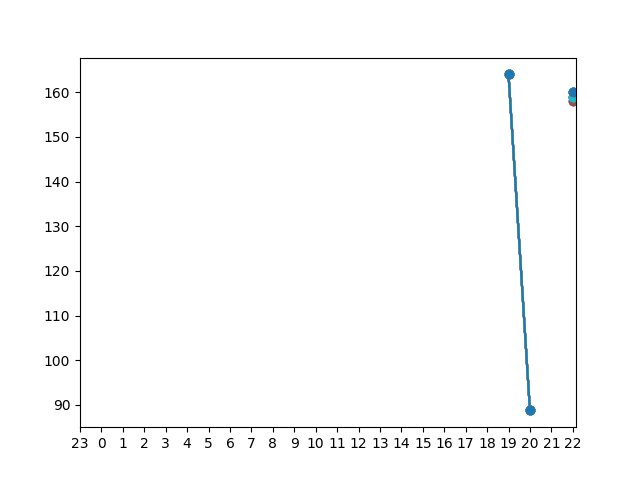
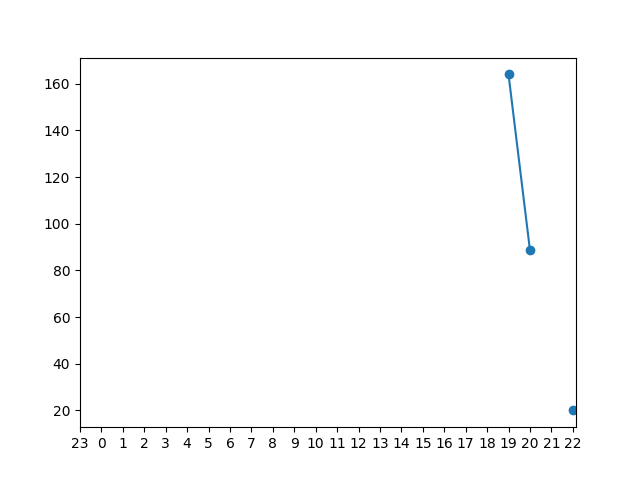
everything is broken, so am I

diff --git a/Server/server.py b/Server/server.py
@@ -76,6 +76,7 @@ def average_hour_graph(hour, day): #current hour, day of today
     plot = plt.plot(xi, graph_data, linestyle='-', marker='o')
     plt.xticks(xi, graph_labels)
     plt.savefig('test.png')
+    plt.clf()
 
 #Calculate the average value for the hour
 def average_hour(hour, day):
@@ -447,7 +448,7 @@ def on_message(client, userdata, message):
     ref.child('humidity').update({cur_minute: cur_humidity})
     ref.child('temperature').update({cur_minute: cur_temperature})
 
-    # average_hour_graph(cur_hour, cur_day)
+    average_hour_graph(cur_hour, cur_day)
 
     last_hour = cur_hour
     last_day = cur_day
@@ -470,5 +471,7 @@ client.on_message = on_message
 client.subscribe("IC.embedded/spicy_chorizo/#")
 # flood_database()
 # initialise_averages()
+# average_hour_graph(last_hour, last_day)
+average_hour(last_hour, last_day)
 client.loop_forever() ##blocks for 100ms
 print("Done")
